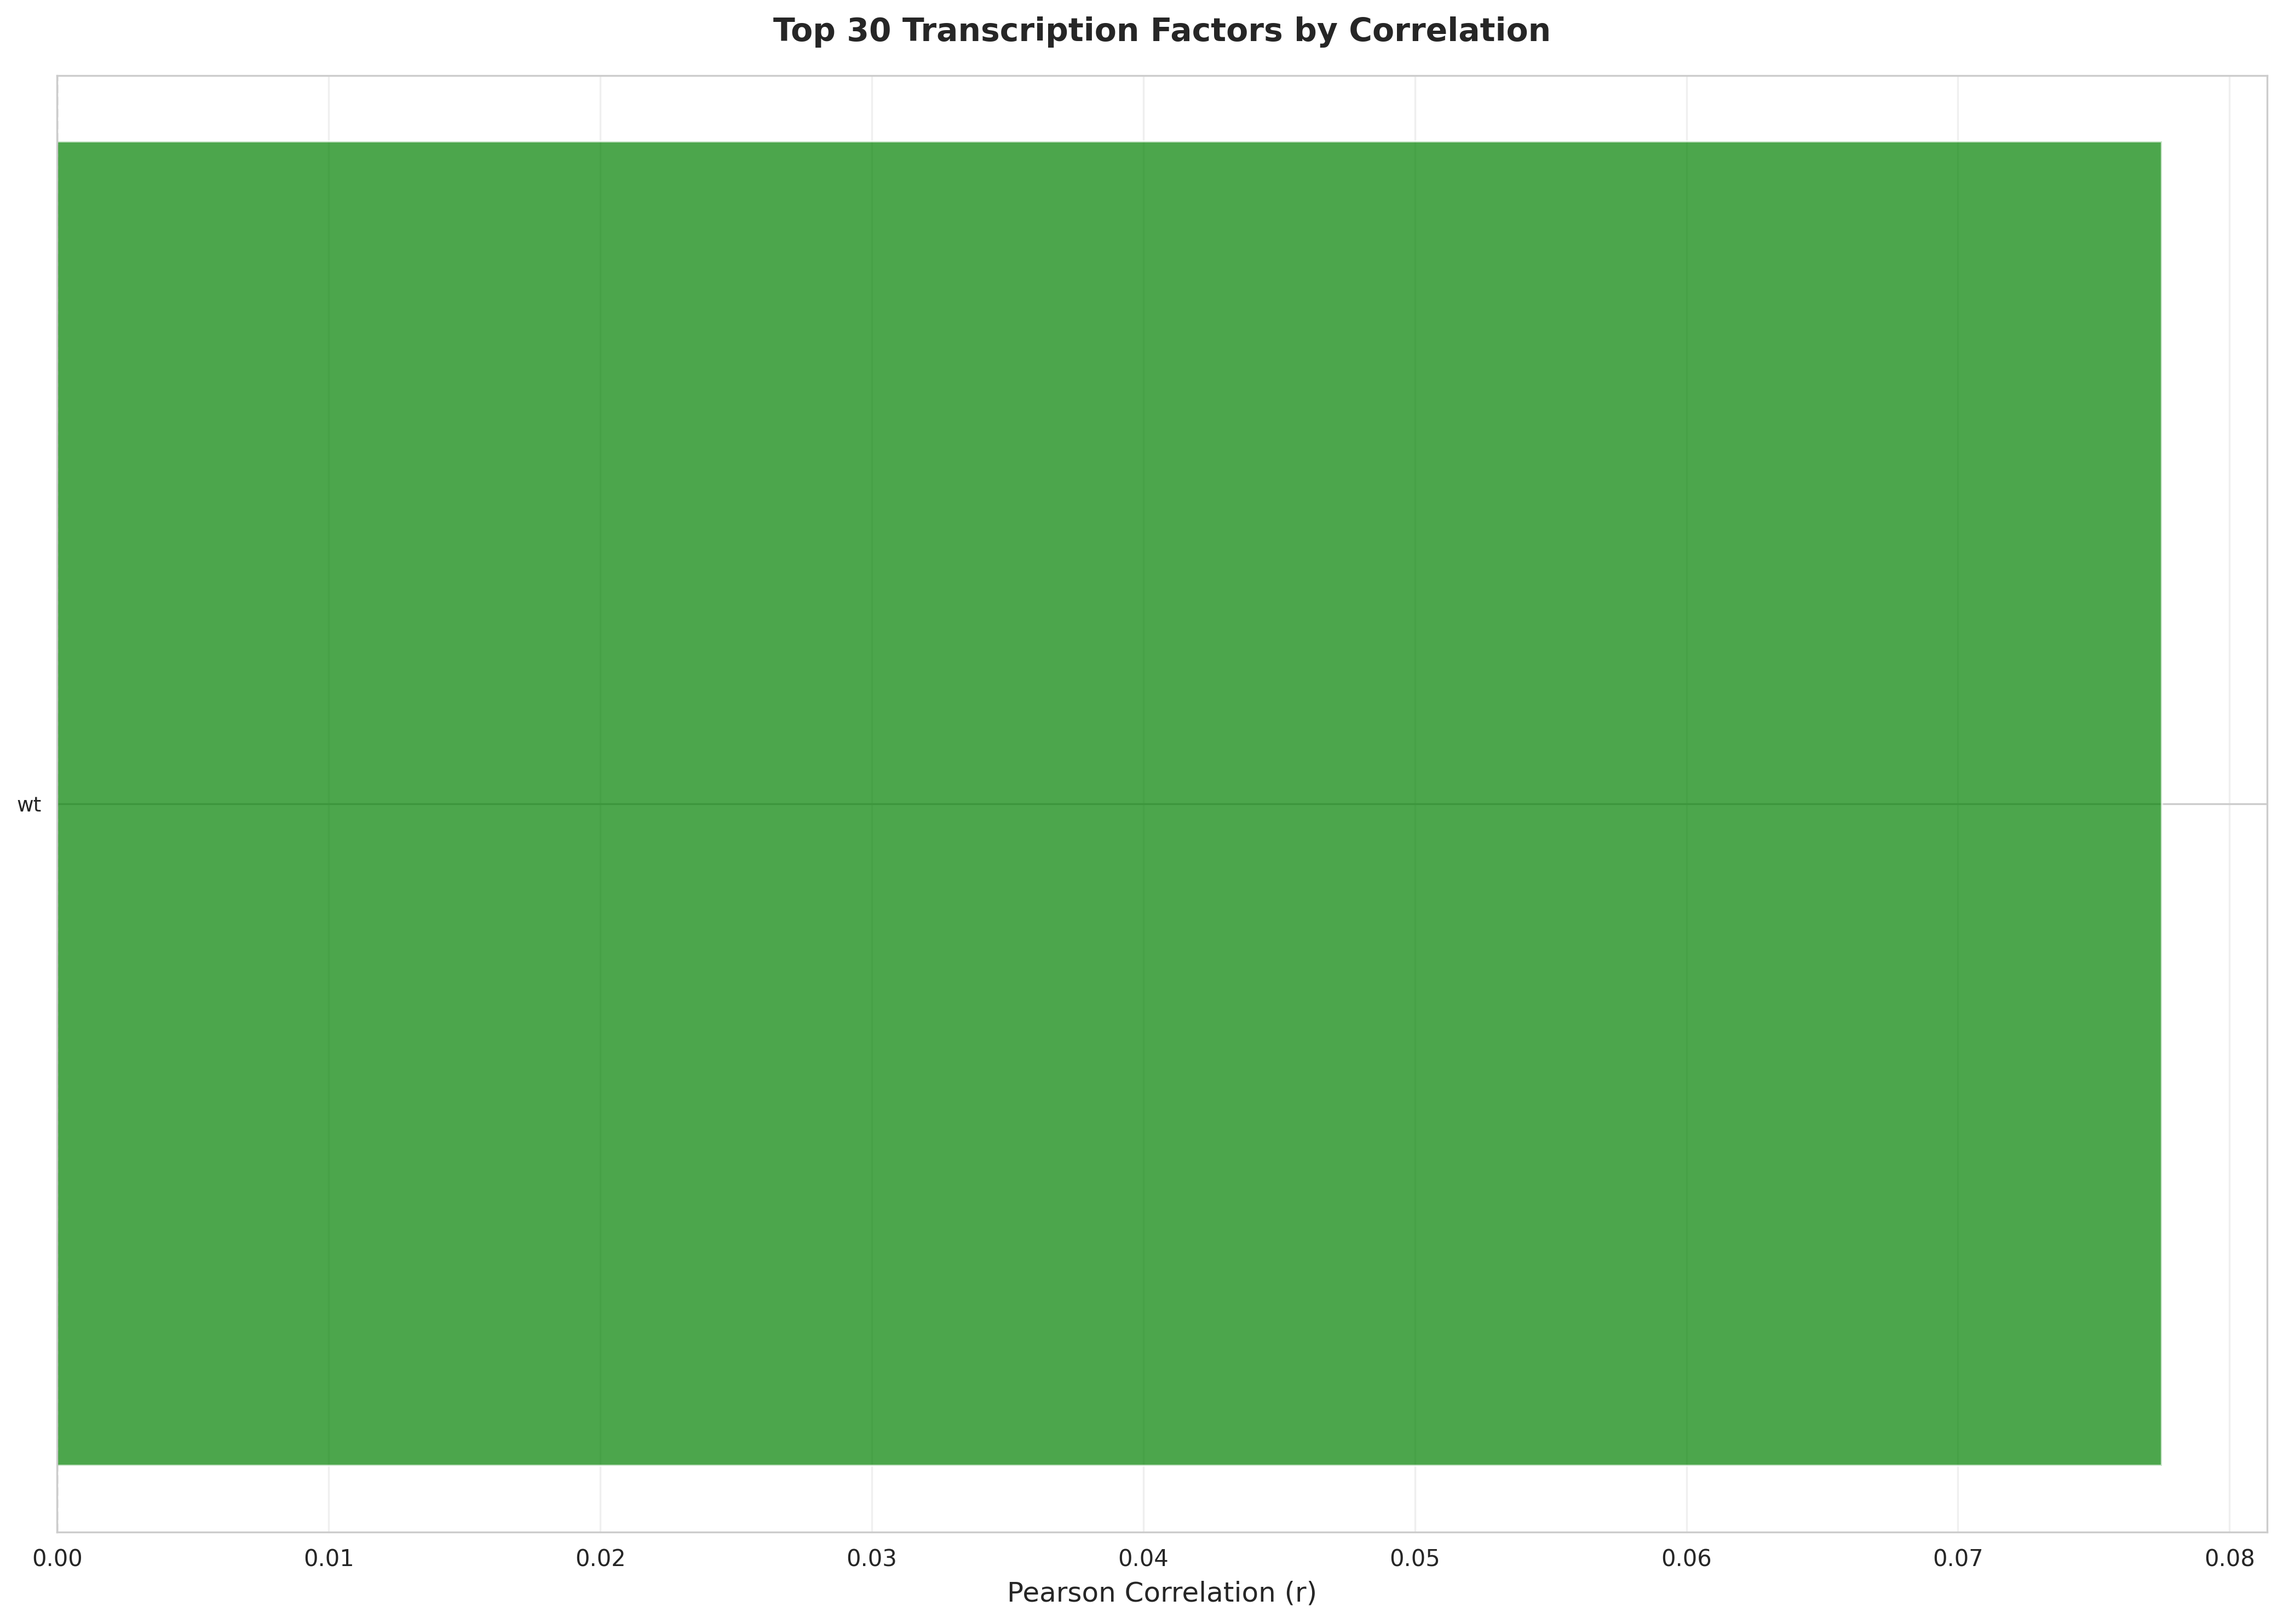
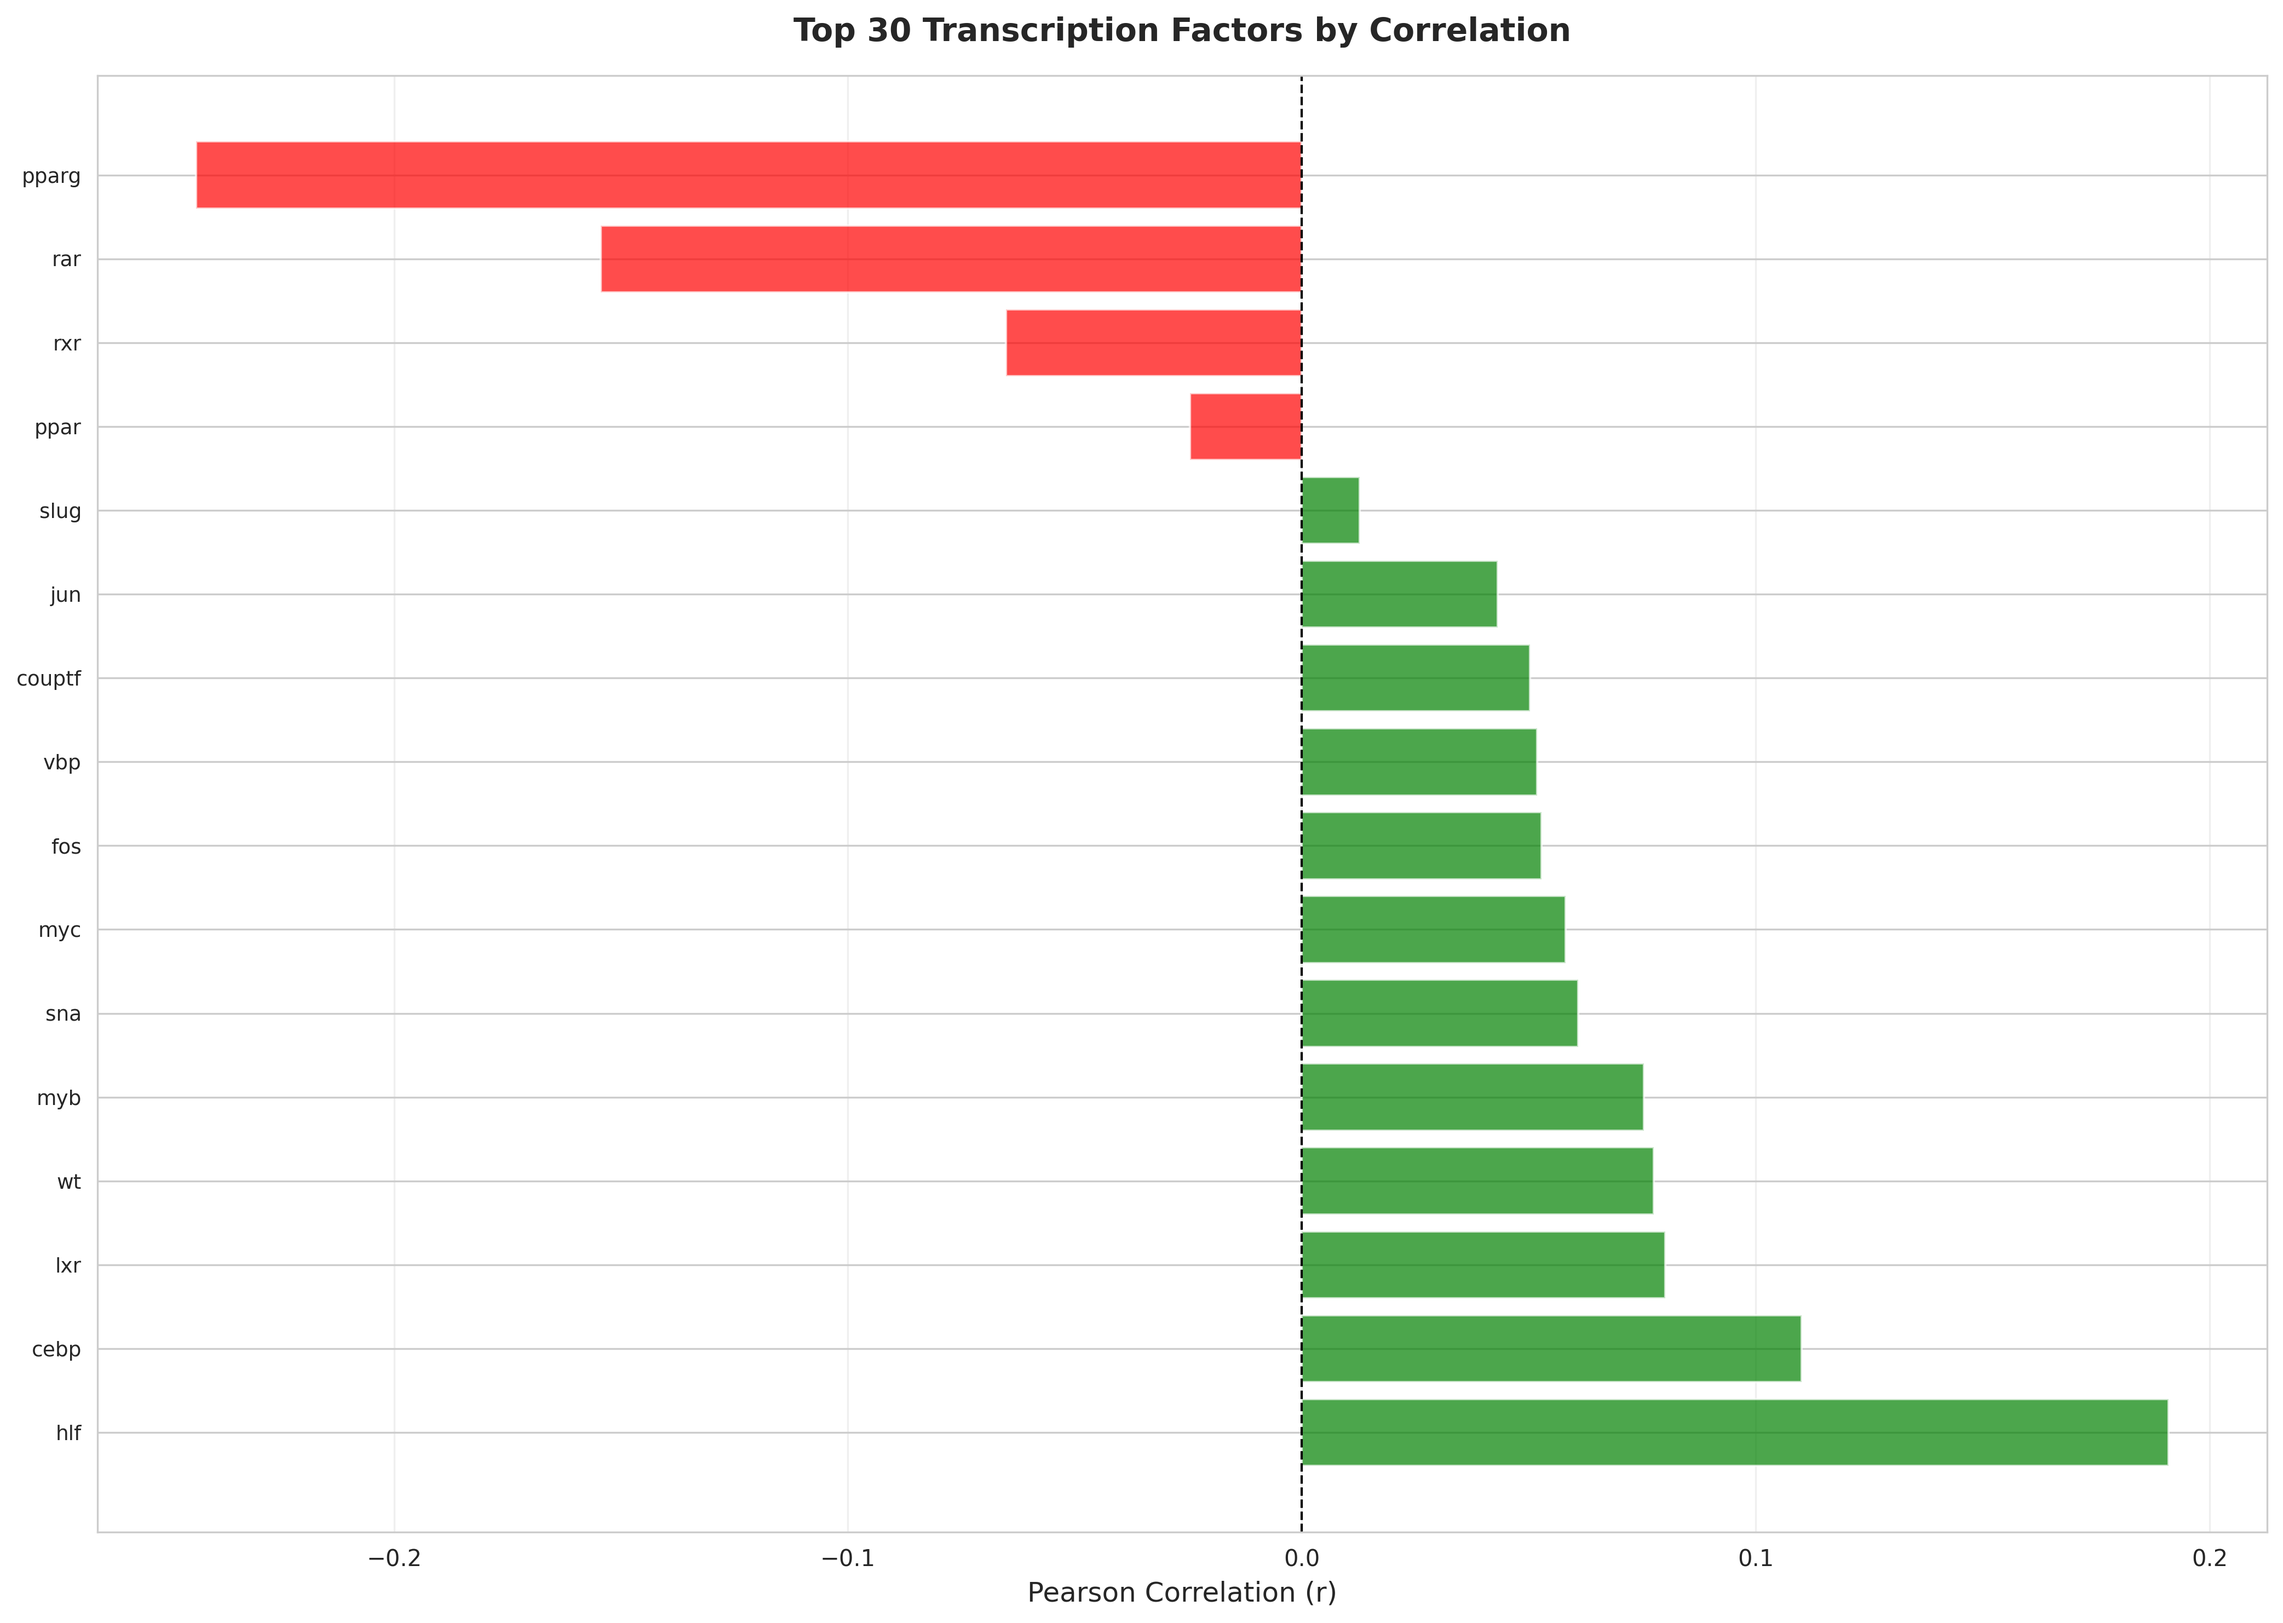
Fix TF name parsing bug in per-TF analysis
Bug: TF names were incorrectly extracted, resulting in numeric codes (1,2,3)
instead of actual transcription factor names (hlf, cebp, lxr, etc.)

Fix: Improved extract_tf_names() function to:
- Filter out numeric-only parts (position codes)
- Extract only alphabetic TF names
- Handle variants with multiple TFs via explode()
- Support complex naming patterns like 'err1_82_92_atf3' and 'lxr_vbp_4_1'

Results:
- Now correctly identifies 16 unique TFs from 6,863 variants
- Top TFs: hlf (r=0.191), cebp (r=0.110), lxr (r=0.080)
- per_tf_barplot.png now displays meaningful TF names
- per_tf_correlations.csv contains proper biological identifiers

diff --git a/code/03_benchmark_correlations.py b/code/03_benchmark_correlations.py
@@ -217,15 +217,34 @@ def plot_heatmap_correlation(corr_matrix, output_file):
 def analyze_per_tf(df, mpra_col, pred_col):
     """
     VERSION 2: Analyze correlations for each transcription factor separately.
+    Extracts TF names from tf_info, filtering out numeric position codes.
     """
-    # Extract TF name from tf_info column
+    # Extract TF names from tf_info column
+    # Format examples: "err1_82_92_atf3", "lxr_vbp_4_1", "myb_24_38_rar"
+    # We want to extract non-numeric TF names (atf3, lxr, vbp, myb, rar)
+    def extract_tf_names(tf_str):
+        if pd.isna(tf_str) or tf_str == 'wt':
+            return ['wt']
+        
+        parts = tf_str.split('_')
+        # Filter out numeric-only parts (position codes)
+        tf_names = [p for p in parts if not p.isdigit() and p.isalpha()]
+        return tf_names if tf_names else ['unknown']
+    
+    df = df.copy()
+    df['tf_names_list'] = df['tf_info'].apply(extract_tf_names)
+    
+    # Explode so each TF gets its own row (variants can have multiple TFs)
+    df_exploded = df.explode('tf_names_list')
+    df_exploded = df_exploded.rename(columns={'tf_names_list': 'tf_name'})
+    
     tf_results = []
     
-    for tf_name in df['tf_info'].unique():
-        if pd.isna(tf_name):
+    for tf_name in df_exploded['tf_name'].unique():
+        if pd.isna(tf_name) or tf_name == '' or tf_name == 'unknown':
             continue
         
-        tf_df = df[df['tf_info'] == tf_name]
+        tf_df = df_exploded[df_exploded['tf_name'] == tf_name]
         
         if len(tf_df) < 10:  # Skip TFs with too few variants
             continue
